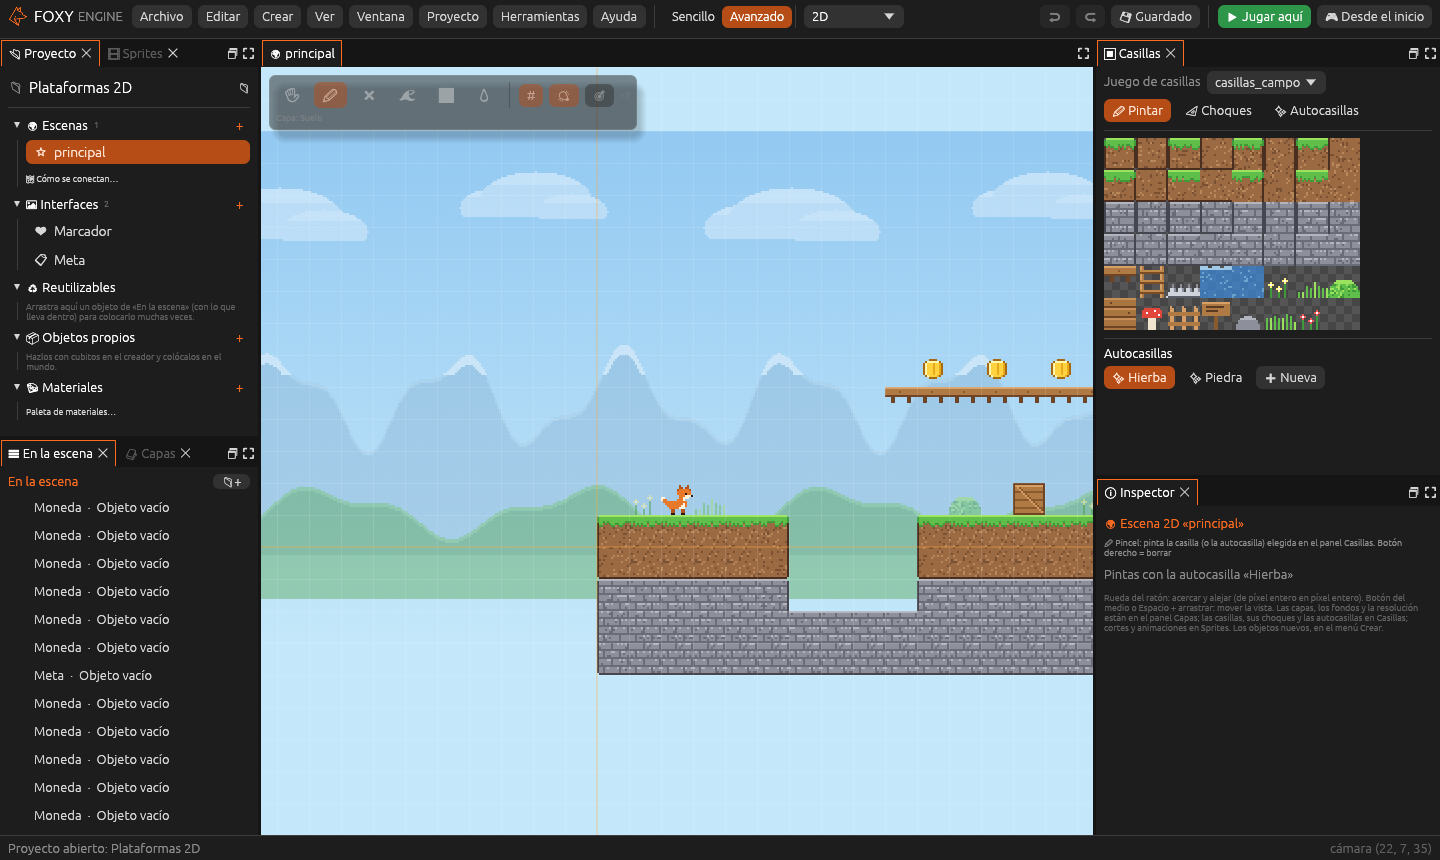
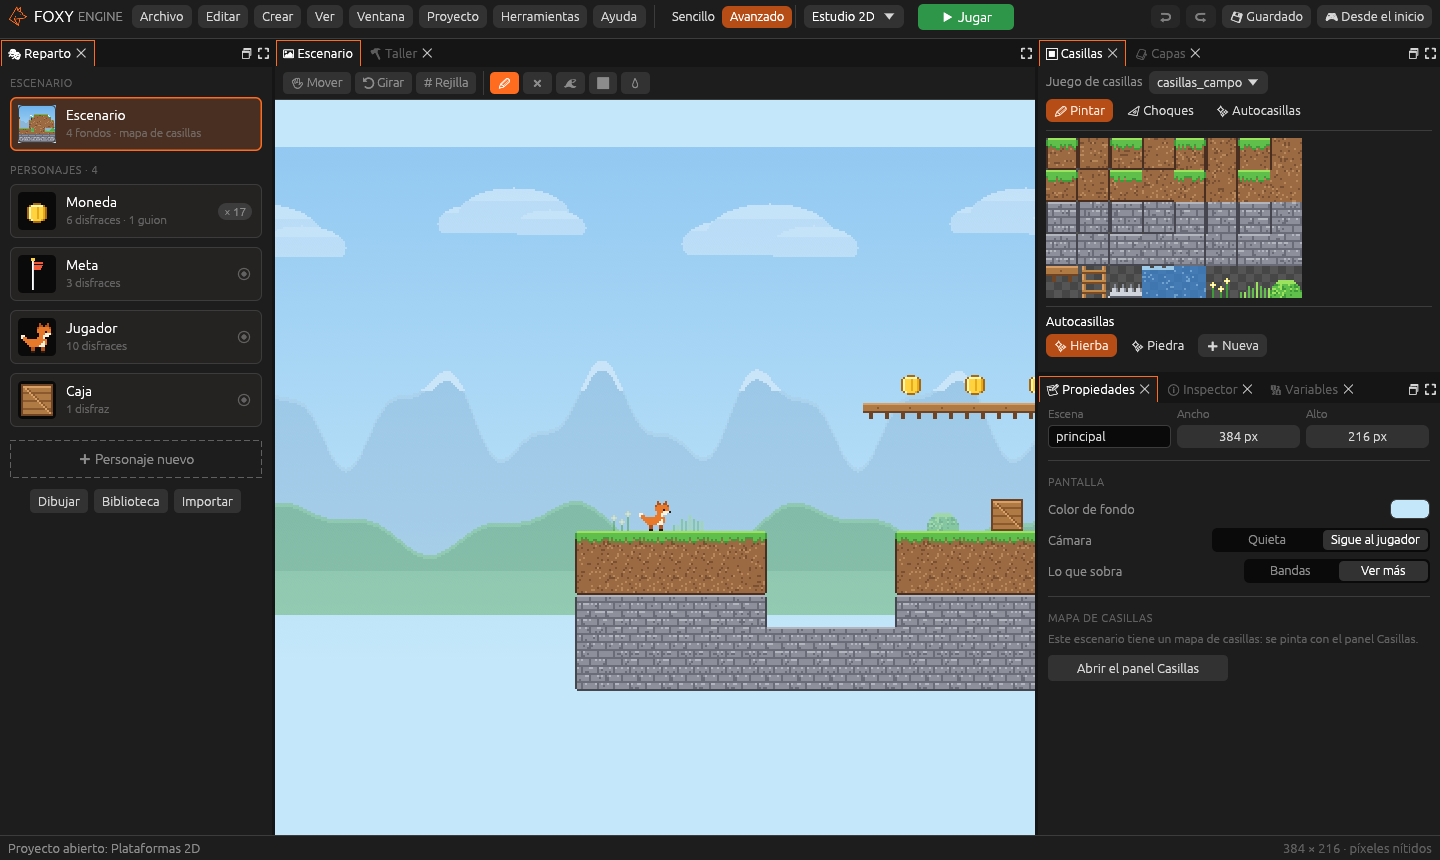
Fase 2D-1: el Estudio 2D (#35)
Guía nueva «El Estudio 2D», plantilla Estudio en blanco, capturas y los
tutoriales 2D apuntan al Estudio.

Claude-Session: https://claude.ai/code/session_0188fnkprJze4MxnvCGFGcA5

diff --git a/src/guia/estudio-2d.md b/src/guia/estudio-2d.md
@@ -1,0 +1,103 @@
+# El Estudio 2D
+
+Todos los proyectos 2D se abren en el **Estudio 2D**, un espacio pensado
+para hacer juegos 2D de forma sencilla, parecido a Scratch: a la izquierda
+están los personajes, en el centro el escenario y, a la derecha, lo que se
+puede cambiar del que está elegido.
+
+![El Estudio 2D en el modo Sencillo, con el zorro elegido](../imagenes/capturas/estudio-2d-sencillo.png)
+
+## Empezar con un escenario en blanco
+
+1. En la pantalla de inicio, pulsa **Nuevo proyecto**.
+2. En **¿Qué juego quieres hacer?**, elige **Estudio en blanco** (en
+   *Empezar de cero*).
+3. Pulsa **Crear proyecto**.
+
+El proyecto trae un escenario de 480 × 270 píxeles, con cielo, nubes,
+montañas y colinas, y un zorro en el centro. No tiene casillas: los
+personajes se colocan donde quieras.
+
+Los proyectos 2D que ya tenías (Plataformas 2D, Aventura cenital, Vacío
+2D…) se abren también en el Estudio, sin cambiar nada de ellos. Sus mapas
+de casillas se siguen pintando desde la barra del escenario y el panel
+**Casillas**.
+
+## Las partes del Estudio
+
+| Panel | Qué hay |
+|---|---|
+| **Reparto** | El escenario y una tarjeta por cada personaje, con su dibujo, cuántos disfraces y guiones tiene, y un ojo para esconderlo. Las copias de un mismo personaje (por ejemplo, veinte monedas) van juntas en una tarjeta con «× 20». |
+| **Escenario** | La pantalla del juego. Lo que queda fuera se ve más oscuro. Arriba tiene la barra con **Mover**, **Girar**, **Rejilla** y, si hay mapa de casillas, los pinceles. A la derecha de la barra se ven las coordenadas del ratón. |
+| **Taller** | Lo del personaje elegido, en tres pestañas: **Bloques** (sus comportamientos), **Disfraces** (sus dibujos; en el escenario se llaman **Fondos**) y **Sonidos**. |
+| **Propiedades** | Su nombre, dónde está, su tamaño, hacia dónde mira y si se ve. Con el escenario elegido: el tamaño de la pantalla, el color de fondo y la cámara. |
+| **Variables** | Las variables del juego (puntos, vidas…), que ven todos, y las del personaje elegido. Se crean con **Variable** y se cambia el valor con el que empiezan. |
+
+En el modo **Avanzado** el Estudio añade, en pestañas, los paneles técnicos:
+**Casillas**, **Capas** e **Inspector**. Los espacios de antes siguen en la
+lista de espacios de la barra de arriba.
+
+![El Estudio 2D en el modo Avanzado](../imagenes/capturas/estudio-2d.png)
+
+## Coordenadas en píxeles
+
+En el Estudio, las posiciones van en **píxeles**, con el **0, 0 en el
+centro** de la pantalla:
+
+- `x` crece hacia la derecha y `y` hacia arriba.
+- En la pantalla de 480 × 270, los bordes están en `x = -240` y `x = 240`,
+  y en `y = -135` y `y = 135`.
+
+## Dirección, tamaño y transparencia
+
+Cada personaje tiene una **dirección** en grados:
+
+| Dirección | Mira hacia |
+|---|---|
+| 90 | la derecha (la de siempre) |
+| -90 | la izquierda |
+| 0 | arriba |
+| 180 | abajo |
+
+Para girarlo:
+
+- Arrastra el **asa** redonda que sale encima del personaje elegido.
+- O elige **Girar** en la barra y arrastra cualquier personaje.
+- O cambia el número de **Dirección** en Propiedades, o arrastra su dial.
+
+Mantén pulsada <kbd>Mayús</kbd> para girar de 15 en 15 grados.
+
+En **Al jugar**, la **forma de girar** dice cómo se dibuja según su
+dirección:
+
+| Forma de girar | Qué hace |
+|---|---|
+| **Todo** | El dibujo gira entero |
+| **Izq.-der.** | No gira: solo se da la vuelta cuando mira a la izquierda |
+| **No** | Se dibuja siempre igual |
+
+Además:
+
+- **Tamaño** lo agranda o lo achica (100 % es el tamaño de sus píxeles).
+- **Transparencia** lo hace más o menos transparente (100 % no se ve).
+- **Se ve** lo esconde. En el escenario, un personaje escondido se ve
+  tenue para que lo puedas seguir moviendo; al jugar no aparece.
+
+## Personajes nuevos
+
+Pulsa **Personaje nuevo** en el reparto para elegir uno:
+
+- de los dibujos del proyecto,
+- de la **biblioteca de Foxy** (el zorro, monedas, cajas, enemigos…),
+- **Dibujar uno nuevo**, que abre el editor de [pixel art](pixel-art.md)
+  con un dibujo en blanco,
+- o **Importar PNG**, para traer un dibujo de tu ordenador.
+
+Doble clic en una tarjeta abre el personaje en el Taller.
+
+## Jugar
+
+Pulsa **Jugar** en el centro de la barra de arriba (o <kbd>F5</kbd>). El
+juego ocupa la ventana, con un botón **Parar** arriba para volver al
+Estudio. Si la ventana es estrecha, **Jugar** pasa a la barra del
+escenario.

diff --git a/src/empezar/primer-juego-2d.md b/src/empezar/primer-juego-2d.md
@@ -8,7 +8,7 @@ en unos veinte minutos.
 **Aprenderás a:** pintar con casillas y autocasillas, dibujar un sprite,
 crear objetos 2D, conectar una zona con una interfaz y probar el juego.
 
-![El espacio 2D con un nivel de plataformas](../imagenes/capturas/editor-2d.png)
+![El Estudio 2D con un nivel de plataformas](../imagenes/capturas/editor-2d.png)
 
 ## 1. Crear el proyecto
 
@@ -18,12 +18,13 @@ crear objetos 2D, conectar una zona con una interfaz y probar el juego.
    cero*).
 3. En **Nombre**, escribe `Mi plataformas` y pulsa **Crear proyecto**.
 
-El proyecto se abre en el espacio **2D**: la escena en el centro, con un
-suelo de hierba, el cielo y un zorro, y a la derecha los paneles
-[Casillas](../interfaz/casillas.md), [Capas](../interfaz/capas.md),
-[Sprites](../interfaz/sprites.md) e **Inspector**.
+El proyecto se abre en el [Estudio 2D](../guia/estudio-2d.md): el escenario
+en el centro, con un suelo de hierba, el cielo y un zorro, y los personajes
+en el reparto de la izquierda. Para pintar casillas, pasa al modo
+**Avanzado**: el Estudio añade los paneles
+[Casillas](../interfaz/casillas.md) y [Capas](../interfaz/capas.md).
 
-Pulsa <i class="fx fx-jugar"></i> **Jugar aquí** (<kbd>F5</kbd>) para
+Pulsa <i class="fx fx-jugar"></i> **Jugar** (<kbd>F5</kbd>) para
 probarlo: el zorro corre con <kbd>A</kbd> y <kbd>D</kbd> y salta con
 <kbd>Espacio</kbd>. Pulsa <kbd>F5</kbd> otra vez para volver.
 
@@ -61,7 +62,7 @@ derecho borra. Ver [Mapas de casillas](../guia/casillas.md).
 3. Con el **Círculo** (<kbd>O</kbd>) y un amarillo, dibuja una moneda
    rellena. Añade un borde más oscuro con el **Lápiz** (<kbd>B</kbd>).
 4. Guarda la imagen (<kbd>Cmd</kbd>/<kbd>Ctrl</kbd>+<kbd>S</kbd>) y vuelve
-   al espacio **2D**.
+   al **Estudio 2D**.
 
 Ver [Pixel art](../guia/pixel-art.md).
 
@@ -94,7 +95,7 @@ plantilla ya trae la interfaz **Marcador**, que muestra `Monedas:
 
 ## 7. Probar el juego
 
-1. Pulsa <i class="fx fx-jugar"></i> **Jugar aquí** (<kbd>F5</kbd>).
+1. Pulsa <i class="fx fx-jugar"></i> **Jugar** (<kbd>F5</kbd>).
 2. Recorre el nivel, recoge las monedas y entra en la zona de la meta.
 3. El cartel muestra cuántas monedas has cogido.
 

diff --git a/src/guia/juegos-2d.md b/src/guia/juegos-2d.md
@@ -5,7 +5,7 @@ mapas de casillas, y de **cubitos vistos de lado**, con la cámara sin
 perspectiva. Los dos usan las mismas objetos, componentes, guiones y
 nodos que los juegos 3D.
 
-![El espacio 2D con la plantilla Plataformas 2D](../imagenes/capturas/editor-2d.png)
+![El Estudio 2D con la plantilla Plataformas 2D](../imagenes/capturas/editor-2d.png)
 
 | Jugando a Plataformas 2D | Jugando a Plataformas vóxel |
 |---|---|
@@ -14,21 +14,23 @@ nodos que los juegos 3D.
 ## Empezar un juego 2D
 
 1. En la pantalla de inicio, pulsa **Nuevo proyecto**.
-2. En **¿Qué juego quieres hacer?**, elige una plantilla 2D: Vacío 2D,
-   Plataformas 2D, Plataformas vóxel o Aventura cenital.
+2. En **¿Qué juego quieres hacer?**, elige una plantilla 2D: Estudio en
+   blanco, Vacío 2D, Plataformas 2D, Plataformas vóxel o Aventura cenital.
 3. Pulsa **Crear proyecto**.
 
 | Plantilla | Qué incluye |
 |---|---|
+| **Estudio en blanco** | Un escenario libre de 480 × 270 píxeles, sin casillas, con el zorro en el centro |
 | **Vacío 2D** | Un suelo de casillas, el cielo y un zorro que salta |
 | **Plataformas 2D** | Un nivel con monedas, escaleras, pinchos, agua, una caja que se empuja y una bandera de meta |
 | **Aventura cenital** | Un prado visto desde arriba, con camino, lago, una vecina, antorchas y gemas que buscar |
 | **Plataformas vóxel** | Un nivel de cubitos visto de lado, con cámara fija y monedas en el camino |
 
-Los proyectos 2D se abren en el espacio **2D**: el panel **Proyecto** y
-**En la escena** a la izquierda, la vista en el centro, y
-[Casillas](casillas.md), [Capas](casillas.md#capas),
-[Sprites](sprites.md) e **Inspector** a la derecha.
+Los proyectos 2D se abren en el [Estudio 2D](estudio-2d.md): el reparto de
+personajes a la izquierda, el escenario en el centro y sus propiedades y
+variables a la derecha. En el modo Avanzado añade
+[Casillas](casillas.md), [Capas](casillas.md#capas) e **Inspector**, y el
+espacio **2D** de antes sigue en la lista de espacios.
 
 ## La escena 2D
 

diff --git a/src/empezar/crear-proyecto.md b/src/empezar/crear-proyecto.md
@@ -37,6 +37,7 @@ para cada una.
 | Tipo de juego | Plantilla | Qué incluye | Tutorial |
 |---|---|---|---|
 | **Empezar de cero** | **Vacío 3D** | Un llano de 96 × 96 m y el punto de inicio. Nada más | [Desde cero](../tu-primer-juego/desde-cero.md) |
+| | **Estudio en blanco** | Un escenario 2D libre, sin casillas, con un zorro en el centro | [El Estudio 2D](../guia/estudio-2d.md) |
 | | **Vacío 2D** | Un suelo de casillas, el cielo y un zorro que salta | [Tu primer juego 2D](primer-juego-2d.md) |
 | **Plataformas** | **Plataformas 2D** | Un nivel de pixel art con monedas que flotan, escaleras, pinchos, agua y una bandera de meta | [Plataformas](../tu-primer-juego/plataformas.md) |
 | | **Plataformas vóxel** | Un nivel de cubitos visto de lado, con cámara fija y monedas que giran | [Plataformas](../tu-primer-juego/plataformas.md) |

diff --git a/src/apendices/historial.md b/src/apendices/historial.md
@@ -5,6 +5,16 @@ Foxy Engine se construye por fases. Cada fase deja el motor funcionando.
 La versión que sale al abrir el editor, como `0.0.1-PR15`, junta la versión
 del motor con el número del último cambio (*pull request*) incorporado.
 
+## Fase 2D-1: el Estudio
+
+- Los proyectos 2D se abren en el **[Estudio 2D](../guia/estudio-2d.md)**:
+  reparto de personajes, escenario, taller, propiedades y variables.
+- Plantilla nueva **Estudio en blanco**: un escenario libre de 480 × 270
+  píxeles, sin casillas, con el zorro en el centro.
+- Las posiciones se ven en píxeles con el 0, 0 en el centro, y los
+  personajes giran (dirección en grados), cambian de tamaño, se hacen
+  transparentes y se esconden.
+
 ## Fase R: cielo, niebla, mar y fuego de verdad
 
 - Una sección nueva en los gráficos,

diff --git a/src/tu-primer-juego/plataformas.md b/src/tu-primer-juego/plataformas.md
@@ -19,7 +19,7 @@ coge monedas y llega a la meta. Hay dos plantillas con la misma idea:
 
 ## 2. Jugarlo
 
-Pulsa **Jugar aquí** (<kbd>F5</kbd>). El zorro corre con <kbd>A</kbd> y
+Pulsa **Jugar** (<kbd>F5</kbd>; en Plataformas vóxel, **Jugar aquí**). El zorro corre con <kbd>A</kbd> y
 <kbd>D</kbd> y salta con <kbd>Espacio</kbd>. Coge las monedas, sube por las
 escaleras, esquiva los pinchos y llega a la bandera. El marcador de arriba
 cuenta las monedas. Pulsa <kbd>F5</kbd> otra vez para volver al editor.

diff --git a/src/tu-primer-juego/vista-desde-arriba.md b/src/tu-primer-juego/vista-desde-arriba.md
@@ -15,7 +15,7 @@ plantilla es **Aventura cenital**.
 
 ## 2. Jugarlo
 
-Pulsa **Jugar aquí** (<kbd>F5</kbd>). El héroe anda en las cuatro
+Pulsa **Jugar** (<kbd>F5</kbd>). El héroe anda en las cuatro
 direcciones con <kbd>W</kbd> <kbd>A</kbd> <kbd>S</kbd> <kbd>D</kbd>. Acércate
 a la **Vecina**: te pide que busques cuatro gemas que se le han caído por el
 prado. El marcador cuenta las que llevas.

diff --git a/src/empezar/editor.md b/src/empezar/editor.md
@@ -41,7 +41,7 @@ un clic arriba en el centro:
 | ![Programar](../imagenes/capturas/espacio-programar.png) | ![Pixel art](../imagenes/capturas/espacio-pixel-art.png) |
 
 Cada espacio **recuerda cómo lo dejaste** en cada proyecto. Los proyectos 2D
-se abren en el espacio **2D**.
+se abren en el [Estudio 2D](../guia/estudio-2d.md).
 
 ## Los paneles
 

diff --git a/src/SUMMARY.md b/src/SUMMARY.md
@@ -97,6 +97,7 @@
     - [Objetos que se hablan](guia/objetos-que-se-hablan.md)
     - [Personajes que andan](guia/personajes-que-andan.md)
 - [Juegos 2D](guia/juegos-2d.md)
+    - [El Estudio 2D](guia/estudio-2d.md)
     - [Sprites](guia/sprites.md)
     - [Mapas de casillas](guia/casillas.md)
     - [Pixel art](guia/pixel-art.md)
